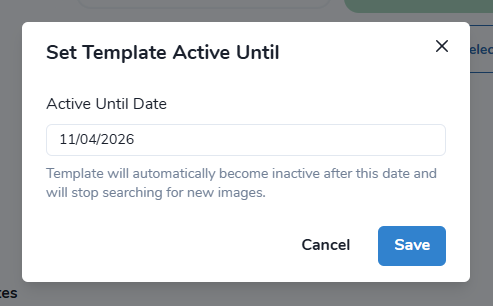
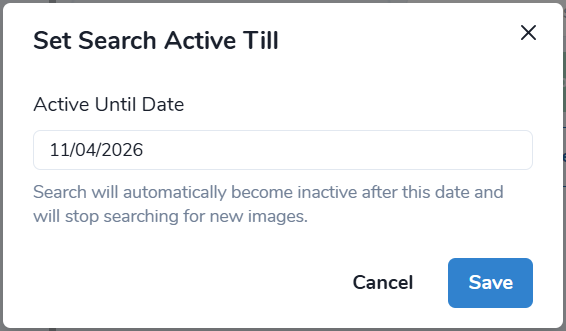
fix Search Schedule section

diff --git a/source/userguides/imagery_search.rst b/source/userguides/imagery_search.rst
@@ -82,7 +82,7 @@ How to create a scheduled search
 1. Set the required search criteria and click "Search Imagery"
 
 .. figure:: _static/templates_params.png
-  :alt: Templates params
+  :alt: Search params
   :align: center
   :width: 13cm
   :class: with-border
@@ -100,7 +100,7 @@ How to create a scheduled search
 2. After that, the search results will appear and the "Save as schedule" button will be available
 
 .. figure:: _static/templates_save_button.png
-  :alt: Templates save button
+  :alt: Search save button
   :align: center
   :width: 13cm
   :class: with-border
@@ -110,7 +110,7 @@ How to create a scheduled search
 3. When you click on it, you will be prompted to choose the name of this search schedule
 
 .. figure:: _static/templates_schedule_button.png
-  :alt: Templates schedule button
+  :alt: Search schedule button
   :align: center
   :width: 13cm
   :class: with-border
@@ -120,7 +120,7 @@ How to create a scheduled search
 4. After creation the search will complete after a while and the search results will be available to you using "View on the map" button
 
 .. figure:: _static/templates_view_button.png
-  :alt: Templates view button
+  :alt: Search view button
   :align: center
   :width: 9cm
   :class: with-border
@@ -138,7 +138,7 @@ Viewing background search results
 Now a background search will be launched in Mapflow and you will be notified when new images arrive.
 
 .. figure:: _static/templates_new_images.png
-  :alt: Templates new images
+  :alt: Search new images
   :align: center
   :width: 13cm
   :class: with-border
@@ -159,7 +159,7 @@ Main operations with Search Schedule
 ~~~~~~~~~~~~~~~~~~~~~~~~~~~~~~~~~~~~~
 
 .. figure:: _static/templates_menu.png
-  :alt: Templates menu
+  :alt: Search menu
   :align: center
   :width: 9cm
   :class: with-border
@@ -171,15 +171,15 @@ Main operations with Search Schedule
 - **Set Active Until** - You can change the lifetime of the background search (6 months by default at creation)
 
 .. figure:: _static/templates_active_until.png
-  :alt: Templates Active Until
+  :alt: Search Active Until
   :align: center
   :width: 9cm
   :class: with-border
 
-  After expired, the Search Template will not be deleted, but paused
+  After expired, the Search will not be deleted, but paused
 
-- **Pause/Resume Template** - The pause means that it will stop the background search, but you can still view its results.
-- **Delete** - Permanently deletes the search template
+- **Pause/Resume Search** - The pause means that it will stop the background search, but you can still view its results
+- **Delete** - Permanently deletes the search
 
 .. note::
     You can also change the search criteria for the existing search:
@@ -187,7 +187,7 @@ Main operations with Search Schedule
     "View on the map" → Adjust the search parameters → "Search Imagery" → "Save as schedule". Now the background search will work according to the new parameters.
 
     .. figure:: _static/templates_update_params.gif
-      :alt: Templates menu
+      :alt: Search menu
       :align: center
       :width: 16cm
       :class: with-border
@@ -196,7 +196,7 @@ Main operations with Search Schedule
     ❗ If you rename the search - it will create a new search schedule with the new name instead of updating the existing one. If you only want to rename the search, simply click on its name.
 
     .. figure:: _static/update_search_name.jpg
-      :alt: Templates menu
+      :alt: Search menu
       :align: center
       :width: 8cm
       :class: with-border no-scaled-link
